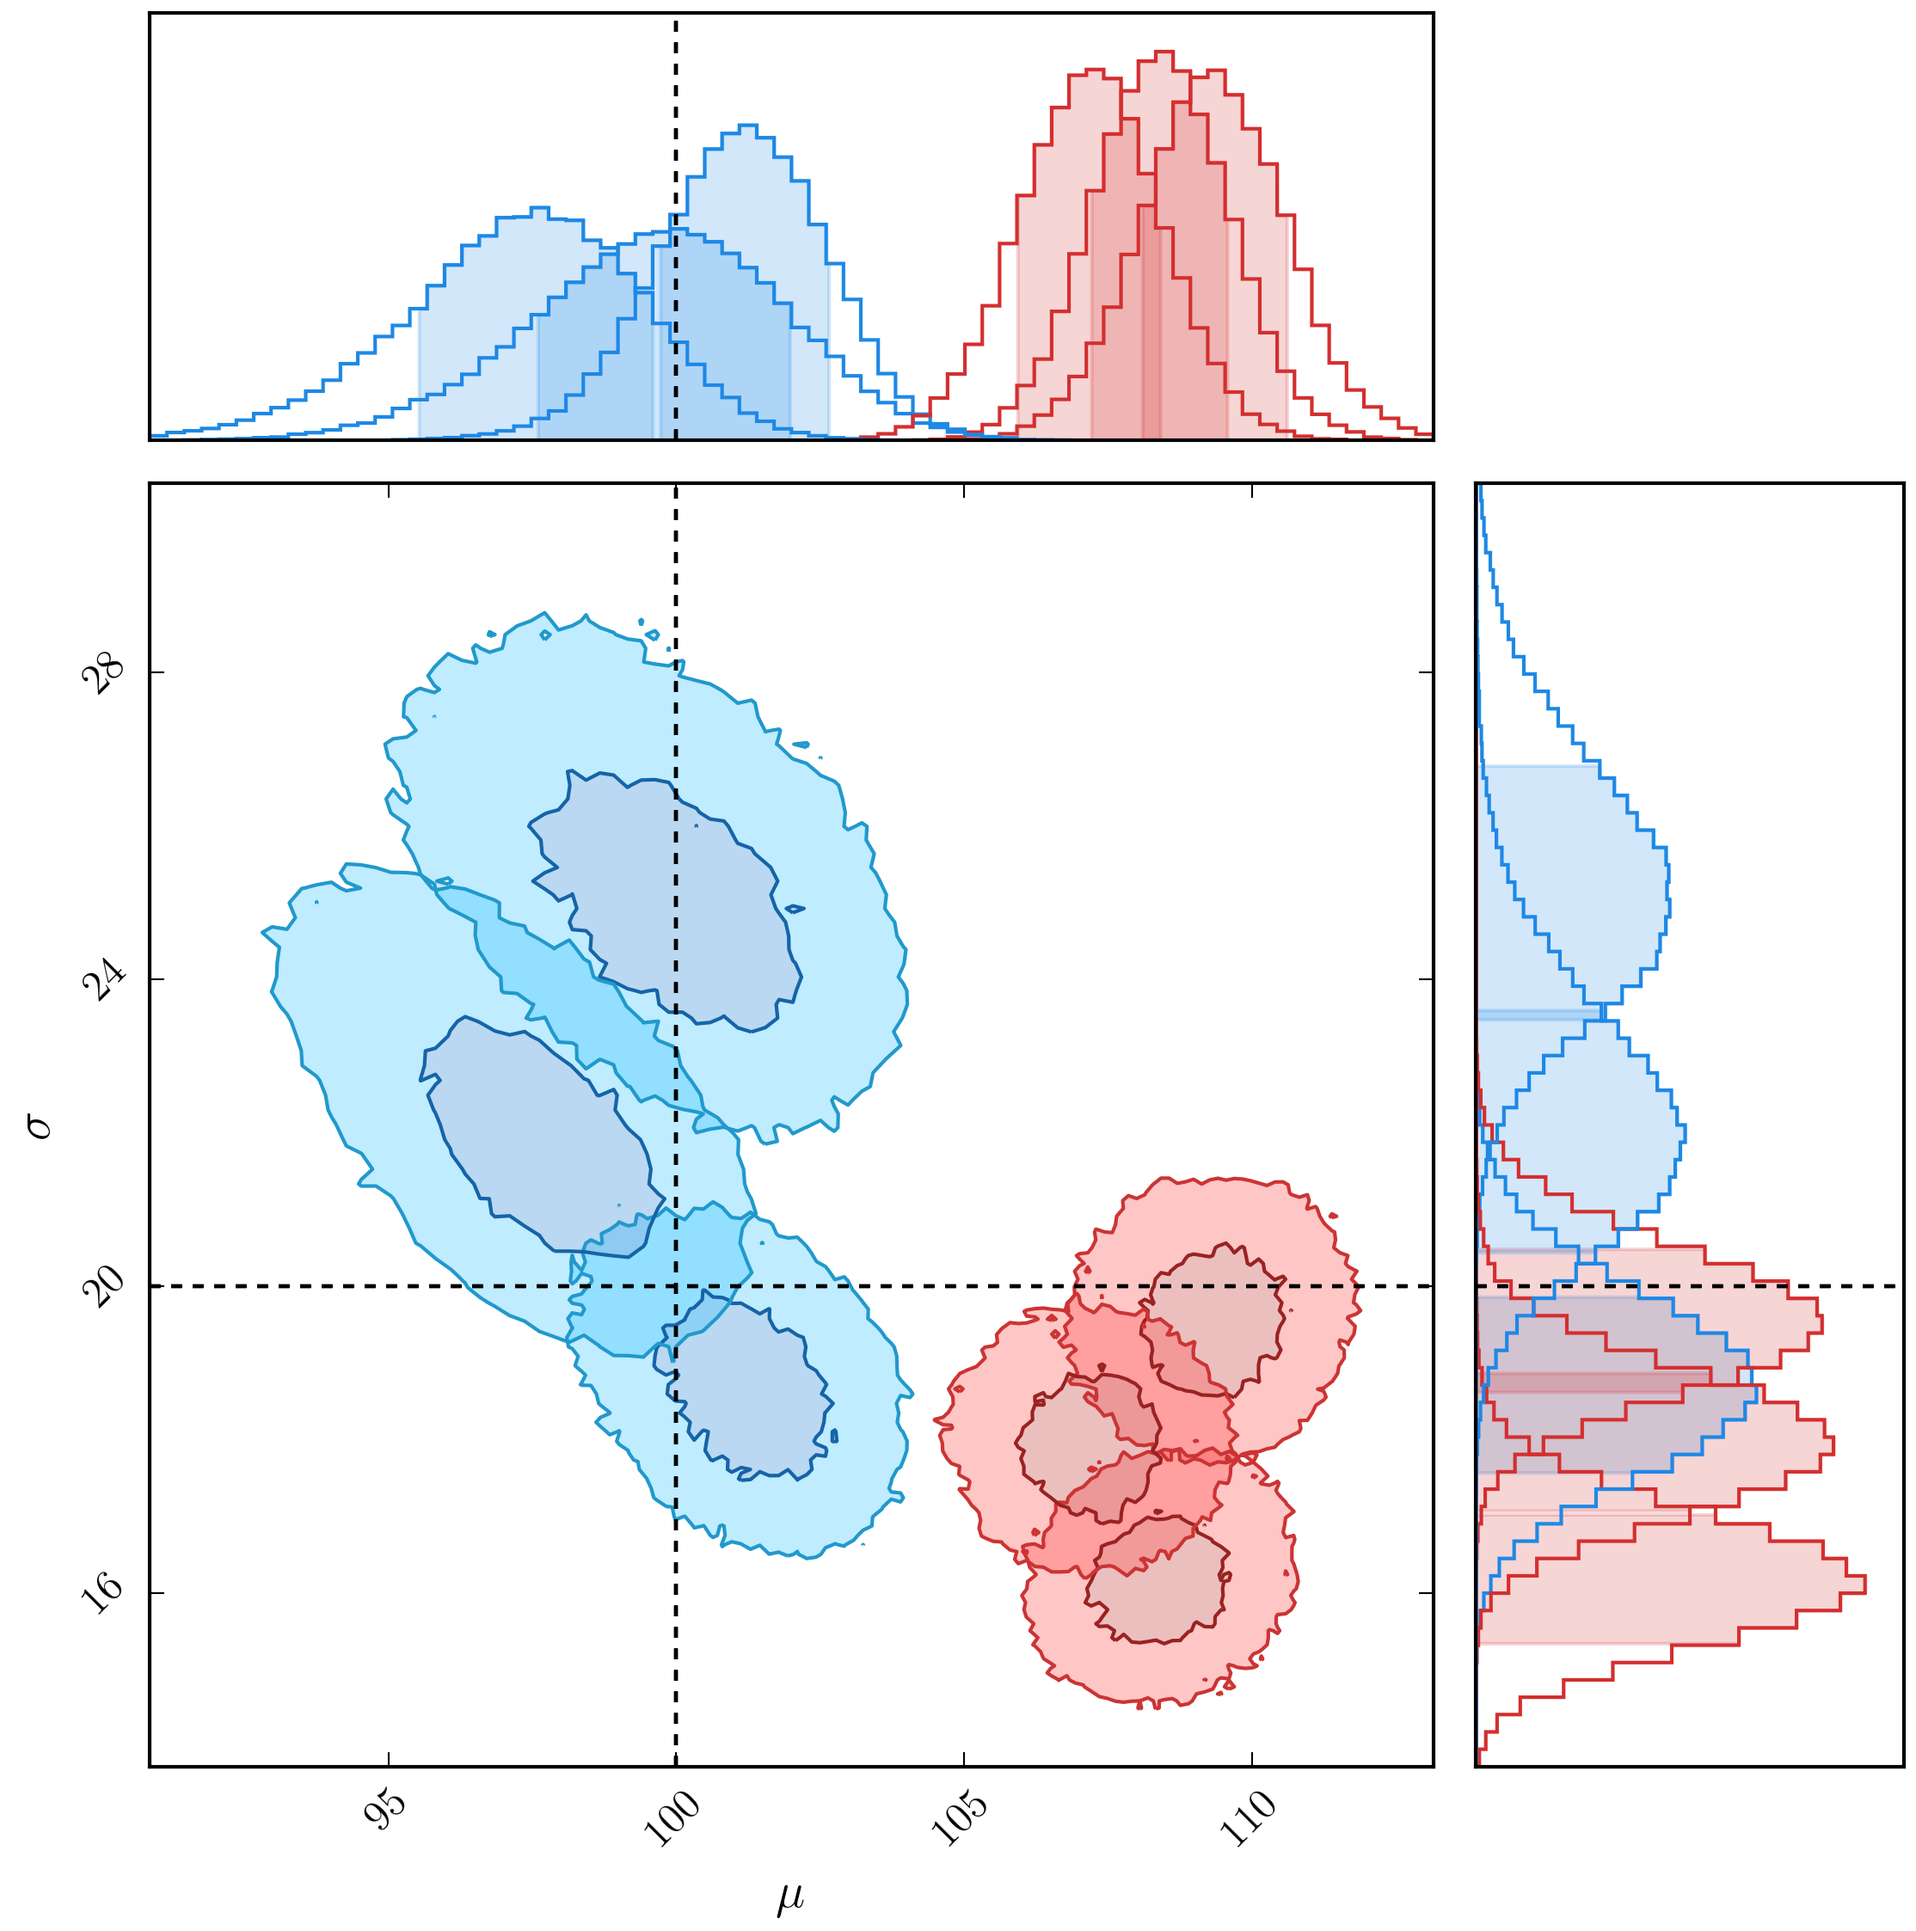
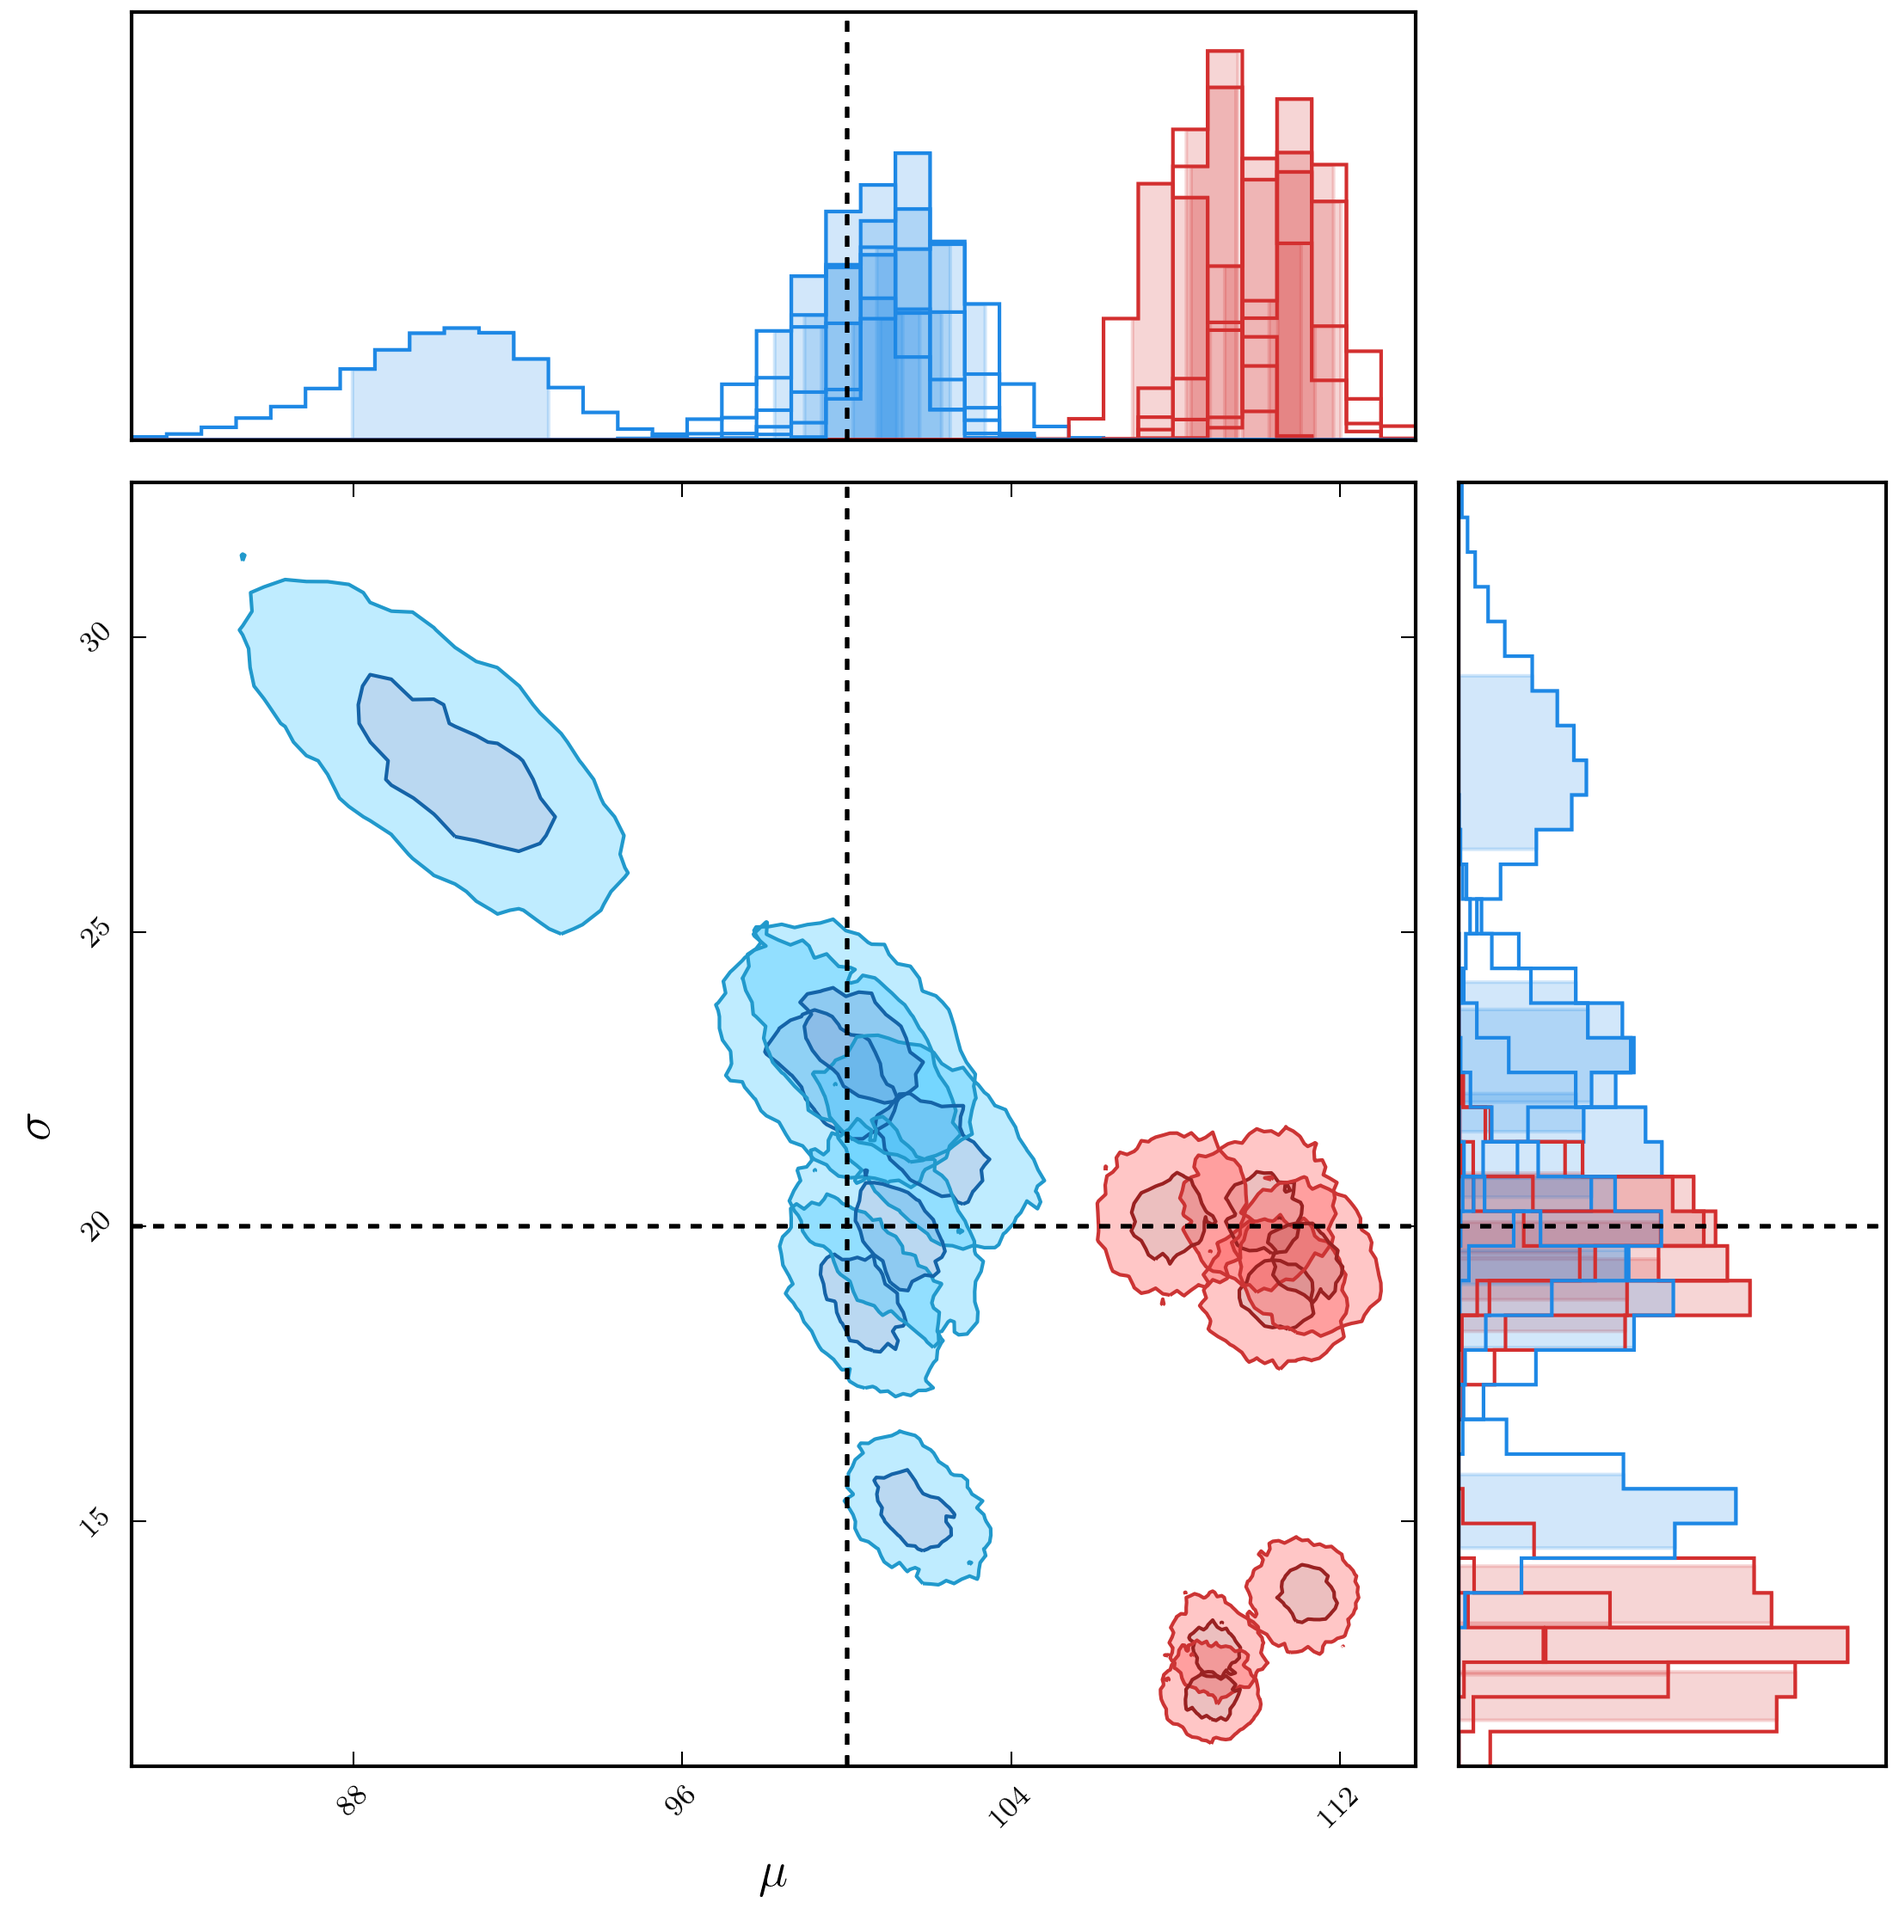
TODO: Remove sigma if this implementation is stable

diff --git a/dessn/framework/samplers/metropolisHastings.py b/dessn/framework/samplers/metropolisHastings.py
@@ -36,7 +36,7 @@ class MetropolisHastings(GenericSampler):
 
         self.num_burn = num_burn
         self.num_steps = num_steps
-        self.sigma_adjust = sigma_adjust
+        self.sigma_adjust = sigma_adjust # Also should be at least 5 x num_dim
         self.covariance_adjust = covariance_adjust
         self.save_interval = save_interval
         self.accept_ratio = accept_ratio
@@ -119,6 +119,7 @@ class MetropolisHastings(GenericSampler):
             burnin = np.vstack((burnin, np.zeros((self.num_burn - burnin.shape[0], position.size))))
         else:
             current_step = self.num_burn
+        num_dim = position.size - self.space
         if covariance is None:
             covariance = np.identity(position.size - self.space)
 
@@ -126,7 +127,7 @@ class MetropolisHastings(GenericSampler):
         self.logger.info("Starting burn in")
         while current_step < self.num_burn:
             # If sigma adjust, adjust
-            if current_step % self.sigma_adjust == 0 and current_step > 0:
+            if current_step % self.sigma_adjust == 0 and current_step > num_dim * 5:
                 burnin[current_step, self.IND_S] = self._adjust_sigma_ratio(burnin, current_step)
             # If covariance adjust, adjust
             if current_step % self.covariance_adjust == 0 and current_step > 0:
@@ -217,17 +218,22 @@ class MetropolisHastings(GenericSampler):
         covariance = np.cov(subset[:, self.space:].T, fweights=subset[:, self.IND_W])
         evals, evecs = np.linalg.eig(covariance)
         sigma = np.sqrt(np.abs(evals)) * 2.3 / np.sqrt(evals.size)
-        self.logger.debug("Adjusting covariance and reseting sigma ratio")
-        return sigma, evecs
+        self.logger.debug("Adjusting covariance and resetting sigma ratio")
+        return sigma, np.linalg.cholesky(covariance)
 
     def _propose_point(self, position, sigma, covariance):
-        rotated_params = np.dot(position[self.space:], covariance)
-        new_params = rotated_params + \
-                     sigma * position[self.IND_S] * np.random.normal(size=sigma.size)
-        return np.dot(covariance, new_params)
+        p = position[self.space:]
+        eta = np.random.normal(size=p.size)
+        step = np.dot(covariance, eta) * position[self.IND_S]
+        return p + step
+        # rotated_params = np.dot(position[self.space:], covariance)
+        # new_params = rotated_params + \
+        #              sigma * position[self.IND_S] * np.random.normal(size=sigma.size)
+        # return np.dot(covariance, new_params)
 
     def _get_next_step(self, position, sigma, covariance, burnin=False):
         attempts = 1
+        counter = 1
         past_pot = position[self.IND_P]
         while True:
             pot = self._propose_point(position, sigma, covariance)
@@ -237,8 +243,10 @@ class MetropolisHastings(GenericSampler):
                 return result, attempts
             else:
                 attempts += 1
-                if attempts > 100 and burnin:
+                counter += 1
+                if counter > 50 and burnin:
                     position[self.IND_S] *= 0.9
+                    counter = 0
 
     def _load(self):
         position = None

diff --git a/dessn/models/test_efficiency_3/efficiency_model_3.py b/dessn/models/test_efficiency_3/efficiency_model_3.py
@@ -155,8 +155,8 @@ def get_data(seed=5):
     np.random.seed(seed=seed)
     mean = 100.0
     std = 20.0
-    alpha = 3.5
-    n = 300
+    alpha = 3.75
+    n = 600
 
     actual = np.random.normal(loc=mean, scale=std, size=n)
 
@@ -177,7 +177,7 @@ if __name__ == "__main__":
     walk_file = os.path.abspath(dir_name + "/output/walk_%s.png")
 
     c = ChainConsumer()
-    n = 3
+    n = 7
     colours = ["#D32F2F", "#1E88E5"] * n
     for i in range(n):
         mean, std, observed, errors, alpha, actual = get_data(seed=i)
@@ -189,16 +189,24 @@ if __name__ == "__main__":
             pgm_file = os.path.abspath(dir_name + "/output/pgm.png")
             fig = model_un.get_pgm(pgm_file)
 
-        sampler = MetropolisHastings(num_steps=200000, num_burn=10000, temp_dir=t % i)
+        sampler = MetropolisHastings(num_steps=50000, num_burn=20000, temp_dir=t % i,
+                                     covariance_adjust=4000)
         model_un.fit(sampler, chain_consumer=c)
         print("Uncorrected ", model_un.get_log_posterior(theta), c.chains[-1][-1, 0])
         model_cor.fit(sampler, chain_consumer=c)
         print("Corrected ", model_cor.get_log_posterior(theta), c.chains[-1][-1, 0])
 
     c.configure_bar(shade=True)
-    c.configure_general(bins=2.0, colours=colours)
+    c.configure_general(bins=1.5, colours=colours)
     c.configure_contour(sigmas=[0, 0.01, 1, 2], contourf=True, contourf_alpha=0.3)
-    c.plot_walks(filename=walk_file % "cor", chain=0, truth=[mean, std])
-    c.plot_walks(filename=walk_file % "cor", chain=1, truth=[mean, std])
+    # c.plot_walks(filename=walk_file % "cor", chain=0, truth=[mean, std])
+    # c.plot_walks(filename=walk_file % "cor", chain=1, truth=[mean, std])
     c.plot(filename=plot_file, figsize=(8, 8), truth=[mean, std], legend=False)
 
+    # import matplotlib.pyplot as plt
+    # plt.clf()
+    # for w in c.weights:
+    #     plt.hist(w, alpha=0.3)
+    #     # plt.plot(w, '.', alpha=0.2)
+    #     print(np.mean(w))
+    # plt.show()
